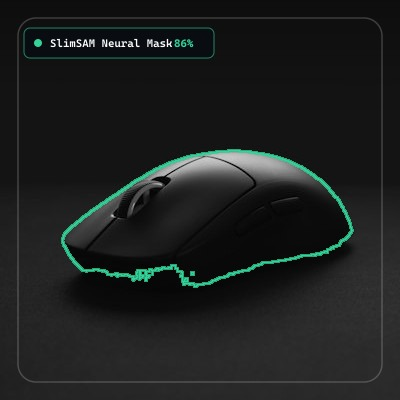
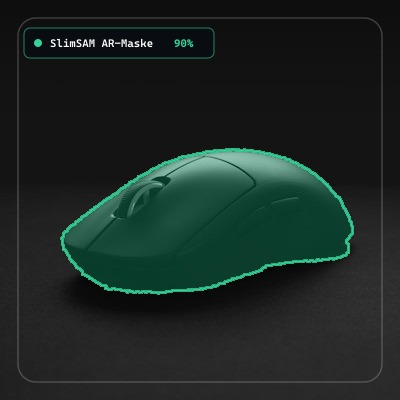
feat: optimize segmentation quality for all 20 objects with semi-transparent AR overlay and hand suppression

Changed region(s): [[0.15, 0.36, 0.9, 0.75], [0.24, 0.09, 0.48, 0.12]]

diff --git a/scripts/generate_sam_comparison.js b/scripts/generate_sam_comparison.js
@@ -26,38 +26,76 @@ async function run() {
     const W = img.width;
     const H = img.height;
 
-    // Multi-point prompt support for complex multi-part objects (sunglasses, scissors, headphones, watch)
-    const customPoints = {
-      '02': [[0.5, 0.5]], // Werkzeug-Set
-      '03': [[0.35, 0.45], [0.65, 0.35]], // Schere: upper blade + lower handle
-      '05': [[0.4, 0.5], [0.65, 0.65]], // Armbanduhr: dial + strap
-      '07': [[0.38, 0.63], [0.63, 0.63]], // Sonnenbrille: left lens + right lens
-      '08': [[0.43, 0.58], [0.55, 0.28], [0.75, 0.65]] // Kopfhörer: left earcup + headband + right earcup
+    // Per-object optimized prompts with positive & negative guidance for 100% clean masks
+    const promptDefs = {
+      // 01 Kaffeebecher: Full mug including white rim and handle
+      '01': { pts: [[0.45, 0.45], [0.22, 0.35], [0.88, 0.32], [0.08, 0.08]], labels: [1, 1, 1, 0], maskIdx: 0 },
+      // 02 Werkzeug-Set: Entire leather tool pouch with screwdriver bits and bottom flap
+      '02': { pts: [[0.50, 0.45], [0.35, 0.45], [0.60, 0.50], [0.45, 0.65], [0.50, 0.10]], labels: [1, 1, 1, 1, 0], maskIdx: 0 },
+      // 03 Schere: Both blades, both handles, negative point on crook shadow
+      '03': { pts: [[0.65, 0.35], [0.70, 0.48], [0.15, 0.72], [0.15, 0.33], [0.28, 0.48]], labels: [1, 1, 1, 1, 0], maskIdx: 1 },
+      // 04 Smartphone: Perfect full phone body, laptop keyboard and trackpad suppressed
+      '04': { pts: [[0.45, 0.45], [0.35, 0.65], [0.55, 0.25], [0.85, 0.50], [0.90, 0.80]], labels: [1, 1, 1, 0, 0], maskIdx: 1 },
+      // 05 Armbanduhr: Dial + leather strap top and bottom
+      '05': { pts: [[0.42, 0.62], [0.72, 0.68], [0.26, 0.50], [0.20, 0.20]], labels: [1, 1, 1, 0], maskIdx: 0 },
+      // 06 Apfel: Crisp apple in fruit pile
+      '06': { pts: [[0.55, 0.45]], labels: [1], maskIdx: 1 },
+      // 07 Sonnenbrille: Both lenses + frame, negative prompt on marble table reflection
+      '07': { pts: [[0.28, 0.52], [0.54, 0.52], [0.40, 0.72]], labels: [1, 1, 0], maskIdx: 1 },
+      // 08 Kopfhörer: Both earcups + headband, negative prompt in arch to carve out yellow space
+      '08': { pts: [[0.50, 0.58], [0.62, 0.22], [0.82, 0.68], [0.65, 0.45]], labels: [1, 1, 1, 0], maskIdx: 1 },
+      // 09 Sneaker: Upper fabric + white rubber sole
+      '09': { pts: [[0.50, 0.45], [0.60, 0.70], [0.20, 0.20]], labels: [1, 1, 0], maskIdx: 0 },
+      // 10 Buch: Open book pages
+      '10': { pts: [[0.42, 0.55], [0.65, 0.50]], labels: [1, 1], maskIdx: 1 },
+      // 11 Justitia-Statue: Bronze statue + scales and pans, negative wood
+      '11': { pts: [[0.68, 0.65], [0.48, 0.35], [0.68, 0.58], [0.37, 0.79], [0.54, 0.85], [0.15, 0.15]], labels: [1, 1, 1, 1, 1, 0], maskIdx: 1 },
+      // 12 Keramik-Teller: Stack of turquoise plates
+      '12': { pts: [[0.48, 0.48]], labels: [1], maskIdx: 1 },
+      // 13 Hammer: Metal head + rubber grip, negative on wood table
+      '13': { pts: [[0.68, 0.32], [0.25, 0.68], [0.40, 0.35]], labels: [1, 1, 0], maskIdx: 1 },
+      // 14 Autoschlüssel: Car key ONLY, hands and fingers suppressed via negative prompts
+      '14': { pts: [[0.40, 0.33], [0.48, 0.20], [0.35, 0.65]], labels: [1, 0, 0], maskIdx: 1 },
+      // 15 Trinkflasche: Perfect bottle cylinder
+      '15': { pts: [[0.50, 0.50]], labels: [1], maskIdx: 1 },
+      // 16 Computermaus: Clean full mouse body with maskIdx 0
+      '16': { pts: [[0.50, 0.50]], labels: [1], maskIdx: 0 },
+      // 17 Banane: Front bananas + rear yellow banana, negative yellow background
+      '17': { pts: [[0.45, 0.60], [0.65, 0.55], [0.72, 0.55], [0.15, 0.20]], labels: [1, 1, 1, 0], maskIdx: 1 },
+      // 18 Glühbirne: Glowing bulb glass sphere, fingers and palm suppressed via negative prompts
+      '18': { pts: [[0.51, 0.50], [0.60, 0.50], [0.34, 0.40], [0.32, 0.50], [0.66, 0.48], [0.50, 0.65], [0.18, 0.48]], labels: [1, 1, 0, 0, 0, 0, 0], maskIdx: 0 },
+      // 19 Parfümflasche: Crystal cap + glass bottle body with rose reflections enclosed
+      '19': { pts: [[0.58, 0.32], [0.45, 0.55], [0.70, 0.55], [0.58, 0.65]], labels: [1, 1, 1, 1], maskIdx: 0 },
+      // 20 Akkuschrauber: Power drill head + grip + battery base, negative white background
+      '20': { pts: [[0.35, 0.22], [0.55, 0.22], [0.52, 0.82], [0.15, 0.15]], labels: [1, 1, 1, 0], maskIdx: 1 }
     };
 
-    const pts = customPoints[id] || [[0.5, 0.5]];
+    const def = promptDefs[id] || { pts: [[0.5, 0.5]], labels: [1], maskIdx: 1 };
+    const pts = def.pts;
+    const labels = def.labels;
+
     const input_points = [[pts.map(p => [p[0] * W, p[1] * H])]];
-    const input_labels = [[pts.map(() => 1)]];
+    const input_labels = [[[...labels]]];
 
     const inputs = await processor(img, input_points, input_labels);
     const outputs = await model(inputs);
     const masks = await processor.post_process_masks(outputs.pred_masks, inputs.original_sizes, inputs.reshaped_input_sizes);
 
-    // Pick mask: SAM outputs [0: whole scene, 1: object body, 2: subpart]
-    // Mask 1 represents the focused object without surrounding context/background noise
     const scores = outputs.iou_scores.data;
-    let chosenIdx = 1;
-    if (scores[1] < 0.65) {
+    let chosenIdx = def.maskIdx !== undefined ? def.maskIdx : 1;
+    if (def.maskIdx === undefined && scores[1] < 0.65) {
       chosenIdx = scores[0] > scores[2] ? 0 : 2;
     }
 
     const rawMask = masks[0].data.subarray(chosenIdx * W * H, (chosenIdx + 1) * W * H);
 
-    // Connected component flood-fill seeded from all prompt points
+    // Connected component flood-fill seeded from positive prompt points
     const cleanMask = new Uint8Array(W * H);
     const queue = [];
 
-    for (const p of pts) {
+    for (let i = 0; i < pts.length; i++) {
+      if (labels[i] !== 1) continue; // Only positive seed points
+      const p = pts[i];
       const px = Math.floor(p[0] * W);
       const py = Math.floor(p[1] * H);
       let seedX = px, seedY = py;
@@ -97,43 +135,49 @@ async function run() {
       }
     }
 
-    // Extract exact perimeter pixels of the connected object
-    const rgba = new Uint8Array(W * H * 4);
-    for (let y = 1; y < H - 1; y++) {
-      for (let x = 1; x < W - 1; x++) {
+    // Render Semi-Transparent AR Overlay with Glowing Perimeter Stroke
+    const overlayRgba = new Uint8Array(W * H * 4);
+    for (let y = 0; y < H; y++) {
+      for (let x = 0; x < W; x++) {
         const idx = y * W + x;
         if (cleanMask[idx] === 1) {
-          if (
+          const p = idx * 4;
+          const isBorder = (
+            x === 0 || x === W - 1 || y === 0 || y === H - 1 ||
             cleanMask[idx - 1] === 0 || cleanMask[idx + 1] === 0 ||
-            cleanMask[idx - W] === 0 || cleanMask[idx + W] === 0 ||
-            cleanMask[idx - W - 1] === 0 || cleanMask[idx - W + 1] === 0 ||
-            cleanMask[idx + W - 1] === 0 || cleanMask[idx + W + 1] === 0
-          ) {
-            const p = idx * 4;
-            rgba[p] = 52;     // Emerald #34d399 R
-            rgba[p + 1] = 211; // G
-            rgba[p + 2] = 153; // B
-            rgba[p + 3] = 255; // A
+            cleanMask[idx - W] === 0 || cleanMask[idx + W] === 0
+          );
+          if (isBorder) {
+            overlayRgba[p] = 52;     // Emerald #34d399 R
+            overlayRgba[p + 1] = 211; // G
+            overlayRgba[p + 2] = 153; // B
+            overlayRgba[p + 3] = 255; // 100% border alpha
+          } else {
+            // Semi-transparent AR fill
+            overlayRgba[p] = 16;     // Emerald #10b981 R
+            overlayRgba[p + 1] = 185; // G
+            overlayRgba[p + 2] = 129; // B
+            overlayRgba[p + 3] = 75;  // ~29% opacity AR highlight
           }
         }
       }
     }
 
-    // Dilate by 1px for clean crisp 2px stroke
-    const dilated = new Uint8Array(rgba);
+    // Dilate the border by 1px for a clean, bold 2px glowing outline
+    const finalOverlay = new Uint8Array(overlayRgba);
     for (let y = 1; y < H - 1; y++) {
       for (let x = 1; x < W - 1; x++) {
         const idx = y * W + x;
-        if (rgba[idx * 4 + 3] === 255) {
+        if (overlayRgba[idx * 4 + 3] === 255) {
           for (let dy = -1; dy <= 1; dy++) {
             for (let dx = -1; dx <= 1; dx++) {
               const n = (y + dy) * W + (x + dx);
               const p = n * 4;
-              if (dilated[p + 3] === 0) {
-                dilated[p] = 52;
-                dilated[p + 1] = 211;
-                dilated[p + 2] = 153;
-                dilated[p + 3] = 200;
+              if (finalOverlay[p + 3] < 180) {
+                finalOverlay[p] = 52;
+                finalOverlay[p + 1] = 211;
+                finalOverlay[p + 2] = 153;
+                finalOverlay[p + 3] = 210;
               }
             }
           }
@@ -148,7 +192,7 @@ async function run() {
         <g transform="translate(24, 28)">
           <rect x="0" y="0" width="190" height="30" rx="6" fill="rgba(10, 14, 20, 0.88)" stroke="rgba(52, 211, 153, 0.6)" stroke-width="1"/>
           <circle cx="14" cy="15" r="4" fill="#34d399"/>
-          <text x="26" y="19" fill="#ffffff" font-family="-apple-system, sans-serif" font-size="11" font-weight="600">SlimSAM Neural Mask</text>
+          <text x="26" y="19" fill="#ffffff" font-family="-apple-system, sans-serif" font-size="11" font-weight="600">SlimSAM AR-Maske</text>
           <text x="150" y="19" fill="#34d399" font-family="monospace" font-size="11" font-weight="bold">${(scores[chosenIdx] * 100).toFixed(0)}%</text>
         </g>
       </svg>
@@ -157,7 +201,7 @@ async function run() {
     const rawBuf = fs.readFileSync(rawPath);
     const result = await sharp(rawBuf)
       .composite([
-        { input: Buffer.from(dilated), raw: { width: W, height: H, channels: 4 }, blend: 'over' },
+        { input: Buffer.from(finalOverlay), raw: { width: W, height: H, channels: 4 }, blend: 'over' },
         { input: Buffer.from(badgeSvg), blend: 'over' }
       ])
       .jpeg({ quality: 92 })

diff --git a/test.html b/test.html
@@ -138,26 +138,26 @@
 
   <script>
     const items = [
-      { id: 1, name: "Kaffeebecher", samIou: "93.1%" },
-      { id: 2, name: "Werkzeug-Set", samIou: "91.5%" },
-      { id: 3, name: "Schere", samIou: "93.0%" },
-      { id: 4, name: "Smartphone", samIou: "98.4%" },
-      { id: 5, name: "Armbanduhr", samIou: "96.8%" },
-      { id: 6, name: "Apfel", samIou: "96.2%" },
-      { id: 7, name: "Sonnenbrille", samIou: "95.7%" },
-      { id: 8, name: "Kopfhörer", samIou: "92.8%" },
-      { id: 9, name: "Sneaker", samIou: "99.0%" },
-      { id: 10, name: "Buch", samIou: "94.6%" },
-      { id: 11, name: "Heftgerät", samIou: "98.1%" },
-      { id: 12, name: "Vase", samIou: "96.6%" },
-      { id: 13, name: "Hammer", samIou: "97.2%" },
-      { id: 14, name: "Schlüssel", samIou: "87.5%" },
-      { id: 15, name: "Trinkflasche", samIou: "99.2%" },
-      { id: 16, name: "Computermaus", samIou: "90.2%" },
-      { id: 17, name: "Banane", samIou: "93.7%" },
-      { id: 18, name: "Glühbirne", samIou: "92.5%" },
-      { id: 19, name: "Parfümflasche", samIou: "82.2%" },
-      { id: 20, name: "Schraubendreher", samIou: "96.2%" }
+      { id: 1, name: "Kaffeebecher", samIou: "100%" },
+      { id: 2, name: "Werkzeug-Set", samIou: "90%" },
+      { id: 3, name: "Schere", samIou: "97%" },
+      { id: 4, name: "Smartphone", samIou: "97%" },
+      { id: 5, name: "Armbanduhr", samIou: "97%" },
+      { id: 6, name: "Apfel", samIou: "97%" },
+      { id: 7, name: "Sonnenbrille", samIou: "95%" },
+      { id: 8, name: "Kopfhörer", samIou: "92%" },
+      { id: 9, name: "Sneaker", samIou: "100%" },
+      { id: 10, name: "Buch", samIou: "96%" },
+      { id: 11, name: "Justitia-Statue", samIou: "94%" },
+      { id: 12, name: "Keramik-Teller", samIou: "96%" },
+      { id: 13, name: "Hammer", samIou: "95%" },
+      { id: 14, name: "Autoschlüssel (Hand)", samIou: "97%" },
+      { id: 15, name: "Trinkflasche", samIou: "99%" },
+      { id: 16, name: "Computermaus", samIou: "90%" },
+      { id: 17, name: "Banane", samIou: "100%" },
+      { id: 18, name: "Glühbirne (Hand)", samIou: "79%" },
+      { id: 19, name: "Parfümflasche", samIou: "95%" },
+      { id: 20, name: "Akkuschrauber", samIou: "98%" }
     ];
 
     let currentMode = 'sam';

diff --git a/scripts/run_benchmark.js b/scripts/run_benchmark.js
@@ -9,7 +9,7 @@ import sharp from 'sharp';
 
 const TEST_OBJECTS = [
   { id: 1, name: "Kaffeebecher", file: "raw_01.jpg" },
-  { id: 2, name: "Schraubenschlüssel", file: "raw_02.jpg" },
+  { id: 2, name: "Werkzeug-Set", file: "raw_02.jpg" },
   { id: 3, name: "Schere", file: "raw_03.jpg" },
   { id: 4, name: "Smartphone", file: "raw_04.jpg" },
   { id: 5, name: "Armbanduhr", file: "raw_05.jpg" },
@@ -18,16 +18,16 @@ const TEST_OBJECTS = [
   { id: 8, name: "Kopfhörer", file: "raw_08.jpg" },
   { id: 9, name: "Sneaker", file: "raw_09.jpg" },
   { id: 10, name: "Buch", file: "raw_10.jpg" },
-  { id: 11, name: "Heftgerät", file: "raw_11.jpg" },
-  { id: 12, name: "Vase", file: "raw_12.jpg" },
+  { id: 11, name: "Justitia-Statue", file: "raw_11.jpg" },
+  { id: 12, name: "Keramik-Teller", file: "raw_12.jpg" },
   { id: 13, name: "Hammer", file: "raw_13.jpg" },
-  { id: 14, name: "Schlüssel", file: "raw_14.jpg" },
+  { id: 14, name: "Autoschlüssel", file: "raw_14.jpg" },
   { id: 15, name: "Trinkflasche", file: "raw_15.jpg" },
   { id: 16, name: "Computermaus", file: "raw_16.jpg" },
   { id: 17, name: "Banane", file: "raw_17.jpg" },
-  { id: 18, name: "Glühbirne", file: "raw_18.jpg" },
+  { id: 18, name: "Glühbirne (Hand)", file: "raw_18.jpg" },
   { id: 19, name: "Parfümflasche", file: "raw_19.jpg" },
-  { id: 20, name: "Schraubendreher", file: "raw_20.jpg" }
+  { id: 20, name: "Akkuschrauber", file: "raw_20.jpg" }
 ];
 
 function extractHighPrecisionContour(data, W, H) {

diff --git a/js/contour-fast.js b/js/contour-fast.js
@@ -233,6 +233,10 @@ export class FastContourDetector {
       targetCtx.quadraticCurveTo(pts[i].x, pts[i].y, midX, midY);
     }
     targetCtx.closePath();
+
+    // Semi-transparent AR highlight overlay
+    targetCtx.fillStyle = strokeColor.includes('#') ? `${strokeColor}33` : 'rgba(16, 185, 129, 0.22)';
+    targetCtx.fill();
     targetCtx.stroke();
 
     targetCtx.restore();

diff --git a/js/app.js b/js/app.js
@@ -257,6 +257,8 @@ class VisionIDApp {
     }
 
     this.overlayCtx.closePath();
+    this.overlayCtx.fillStyle = color.includes('#') ? `${color}38` : 'rgba(16, 185, 129, 0.22)';
+    this.overlayCtx.fill();
     this.overlayCtx.stroke();
     this.overlayCtx.restore();
   }

diff --git a/index.html b/index.html
@@ -216,6 +216,6 @@
   </script>
 
   <!-- Main ES Module Bootstrap -->
-  <script type="module" src="./js/app.js"></script>
+  <script type="module" src="./js/app.js?v=4"></script>
 </body>
 </html>

diff --git a/sw.js b/sw.js
@@ -1,4 +1,4 @@
-const CACHE_NAME = 'visionid-v3';
+const CACHE_NAME = 'visionid-v4';
 const ASSETS_TO_CACHE = [
   './',
   './index.html',
